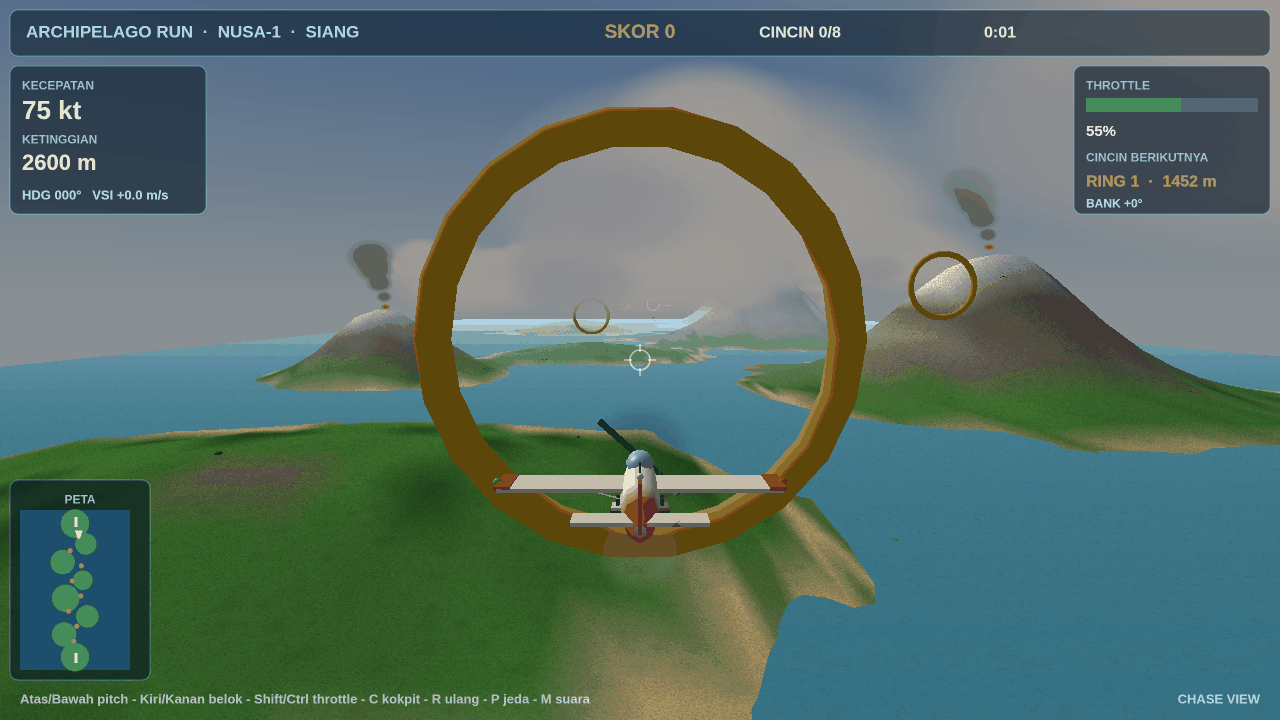
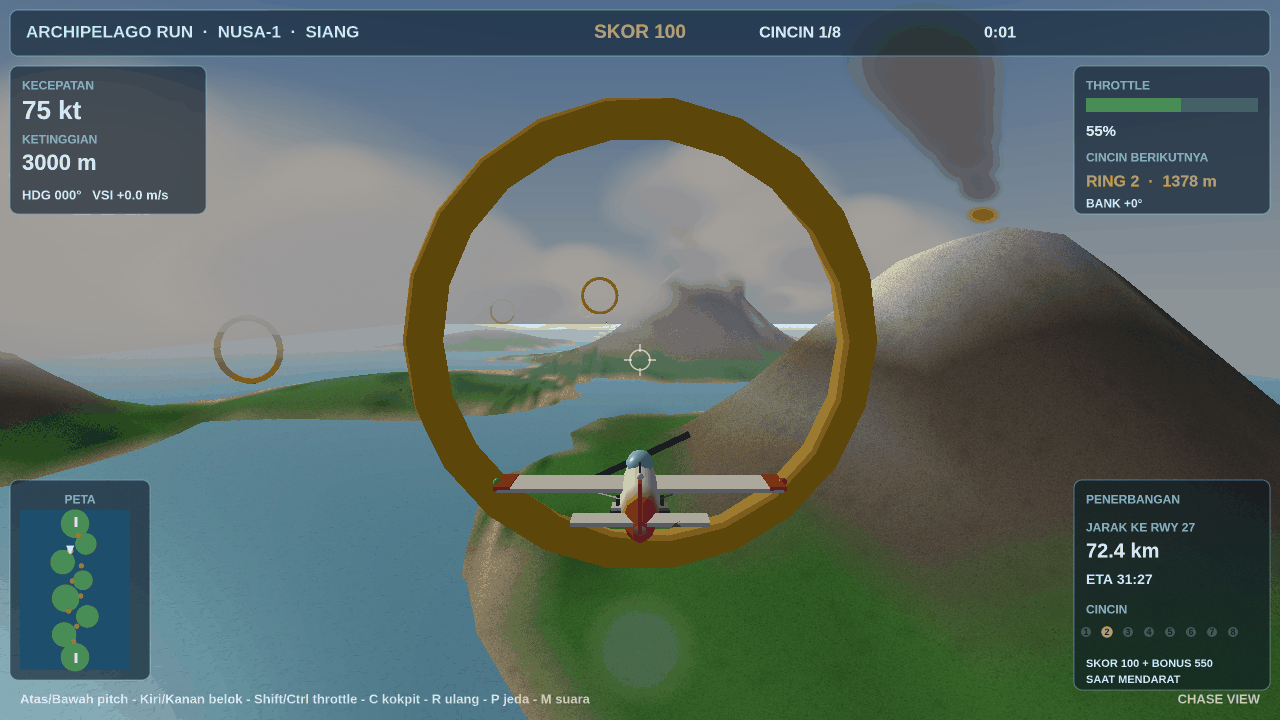
flight v3: golden-hour light, denser volcano smoke, sea sparkle, flight-progress HUD, reframed screenshots

diff --git a/game/index.html b/game/index.html
@@ -274,7 +274,7 @@ gl.enable(gl.BLEND);
 gl.blendFunc(gl.SRC_ALPHA,gl.ONE_MINUS_SRC_ALPHA);
 gl.getExtension('OES_element_index_uint');
 window.__gl=gl;
-gl.uniform3f(U.uSun,0.55,0.62,0.35);
+gl.uniform3f(U.uSun,0.6,0.45,0.35);
 gl.uniform3f(U.uFogCol,0.78,0.88,0.94);
 // ---------- shadow mapping (real sun shadows) ----------
 const SHADOW_SIZE=1024;
@@ -1285,7 +1285,7 @@ function update(dt){
 
 // ---------- camera + render ----------
 let lastView=matIdentity(),lastProj=matIdentity();
-const SUN_DIR=[0.55,0.62,0.35];
+const SUN_DIR=[0.6,0.45,0.35];
 function project(x,y,z){
   const v=transformPoint(lastView,[x,y,z]);
   const c=transformPoint(lastProj,v);
@@ -1341,7 +1341,7 @@ function renderShadowMap(){
 function render(){
   gl.viewport(0,0,glCanvas.width,glCanvas.height);
   // sky + fog colors follow the mission (day / night / storm)
-  const mc=S.mission==='night'?{clear:[0.02,0.03,0.08],fog:[0.05,0.08,0.15]}:S.mission==='storm'?{clear:[0.45,0.5,0.55],fog:[0.55,0.58,0.62]}:{clear:[0.55,0.78,0.92],fog:[0.78,0.88,0.94]};
+  const mc=S.mission==='night'?{clear:[0.02,0.03,0.08],fog:[0.05,0.08,0.15]}:S.mission==='storm'?{clear:[0.45,0.5,0.55],fog:[0.55,0.58,0.62]}:{clear:[0.62,0.76,0.9],fog:[0.84,0.85,0.9]};
   gl.clearColor(mc.clear[0],mc.clear[1],mc.clear[2],1);
   gl.uniform3f(U.uFogCol,mc.fog[0],mc.fog[1],mc.fog[2]);
   gl.clear(gl.COLOR_BUFFER_BIT|gl.DEPTH_BUFFER_BIT);
@@ -1393,7 +1393,7 @@ function render(){
   drawMesh(S.mission==='night'?nightSkyGL:skyGL,matTranslate(eye[0],eye[1],eye[2]),{noFog:true});
   gl.depthMask(true);
   // sea (specular) then terrain
-  drawMesh(seaGL,ident,{spec:0.55,tex:waterTex});
+  drawMesh(seaGL,ident,{spec:0.75,tex:waterTex});
   drawMesh(terrainGL,ident,{tex:detailTex});
   drawMesh(runwayStripGL,ident,{tex:asphaltTex});
   drawMesh(runwayMarksGL,ident,{});
@@ -1495,13 +1495,13 @@ function render(){
   // volcano smoke: a rising column over each peak + a warm crater glow
   for(const p of PEAKS){
     const py=groundY(p[0],p[1]);
-    for(let k=0;k<4;k++){
-      const rise=(S.time*10+k*50)%200;
-      const sx=p[0]+rise*0.35,sy=py+30+rise,sz=p[1]+rise*0.12;
-      const ss=26+rise*0.45;
+    for(let k=0;k<6;k++){
+      const rise=(S.time*10+k*38)%230;
+      const sx=p[0]+rise*0.4,sy=py+30+rise,sz=p[1]+rise*0.14;
+      const ss=30+rise*0.5;
       sprites.push({cx:sx,cy:sy,cz:sz,rx:ss,ry:ss*0.7,r:0.55,g:0.55,b:0.58,d:Math.hypot(sx-eye[0],sy-eye[1],sz-eye[2])});
     }
-    sprites.push({cx:p[0],cy:py+6,cz:p[1],rx:20,ry:11,r:1.0,g:0.45,b:0.12,d:Math.hypot(p[0]-eye[0],py+6-eye[1],p[1]-eye[2])});
+    sprites.push({cx:p[0],cy:py+6,cz:p[1],rx:28,ry:15,r:1.0,g:0.45,b:0.12,d:Math.hypot(p[0]-eye[0],py+6-eye[1],p[1]-eye[2])});
   }
   sprites.sort((a,b)=>b.d-a.d);
   drawSprites(sprites,ident,camRight,camUp,S.mission==='night'?0.85:0.92);
@@ -1680,6 +1680,24 @@ function drawHUD(){
     txt('MENUJU RUNWAY 27',1086,182,15,'#ffd23d','left','800');
   }
   txt('BANK '+(S.bank>=0?'+':'')+(S.bank*57.3).toFixed(0)+'°',1086,204,12,'#bfe3ff','left');
+  // --- bottom-right: flight progress (distance, ETA, ring strip) ---
+  panel(1074,480,196,210,0.6);
+  txt('PENERBANGAN',1086,500,12,'#8fb8d8','left','700');
+  const destD=Math.round(Math.hypot(S.x,9000-S.z)*10);
+  txt('JARAK KE RWY 27',1086,528,12,'#8fb8d8','left','700');
+  txt(destD>=1000?(destD/1000).toFixed(1)+' km':destD+' m',1086,552,20,'#ffffff','left','800');
+  const etaS=S.speed>5?destD/(S.speed*0.514):0;
+  txt('ETA '+(etaS>0?fmtTime(etaS):'--:--'),1086,580,14,'#bfe3ff','left','700');
+  txt('CINCIN',1086,610,12,'#8fb8d8','left','700');
+  for(let i=0;i<8;i++){
+    const dx=1086+i*21,dy=632;
+    hctx.fillStyle=RINGS[i].passed?'#37c871':(i===S.nextRing?'#ffd23d':'rgba(255,255,255,0.22)');
+    hctx.beginPath();hctx.arc(dx,dy,i===S.nextRing?6+Math.sin(S.time*4)*1.5:5,0,TAU);hctx.fill();
+    hctx.fillStyle='#0a1a28';hctx.font='700 9px Arial,sans-serif';hctx.textAlign='center';hctx.textBaseline='middle';
+    hctx.fillText(String(i+1),dx,dy+0.5);
+  }
+  txt('SKOR '+(S.rings*100)+' + BONUS '+(500+50*S.rings),1086,664,11,'#bfe3ff','left');
+  txt('SAAT MENDARAT',1086,680,11,'#bfe3ff','left');
   // --- minimap (bottom-left): archipelago, runways, rings, plane ---
   panel(10,480,140,200,0.6);
   txt('PETA',80,500,12,'#8fb8d8','center','700');
@@ -1897,9 +1915,9 @@ const missionParam=qs.get('mission');
 if(['day','night','storm','emergency'].includes(missionParam))S.mission=missionParam;
 if(scene==='takeoff'){S.started=true;S.mode='flying';S.x=300;S.y=130;S.z=-450;S.heading=-0.45;S.speed=25;S.throttle=0.3;S.pitch=-0.02;}
 else if(scene==='ring'){S.started=true;S.mode='flying';S.x=380;S.y=230;S.z=2700;S.heading=0.2;S.pitch=-0.02;S.speed=70;S.throttle=0.7;S.nextRing=2;S.rings=2;S.score=200;}
-else if(scene==='landing'){S.started=true;S.mode='flying';S.x=40;S.y=55;S.z=8720;S.heading=-0.3;S.speed=40;S.throttle=0.3;S.pitch=-0.06;S.nextRing=8;}
-else if(scene==='cockpit'){S.started=true;S.mode='flying';S.view='cockpit';S.x=0;S.y=200;S.z=4000;S.heading=0;S.speed=70;S.throttle=0.55;S.pitch=0;S.nextRing=4;S.rings=3;S.score=300;}
-else if(scene==='cover'){S.started=true;S.mode='flying';S.x=250;S.y=260;S.z=650;S.heading=0;S.speed=75;S.throttle=0.55;S.pitch=0;S.nextRing=0;S.rings=0;S.score=0;}
+else if(scene==='landing'){S.started=true;S.mode='flying';S.x=20;S.y=35;S.z=8850;S.heading=-0.1;S.speed=35;S.throttle=0.25;S.pitch=-0.04;S.nextRing=8;S.rings=8;S.score=800;}
+else if(scene==='cockpit'){S.started=true;S.mode='flying';S.view='cockpit';S.x=200;S.y=230;S.z=4500;S.heading=0.1;S.speed=70;S.throttle=0.55;S.pitch=0;S.nextRing=4;S.rings=3;S.score=300;}
+else if(scene==='cover'){S.started=true;S.mode='flying';S.x=-320;S.y=300;S.z=1650;S.heading=0;S.speed=75;S.throttle=0.55;S.pitch=0;S.nextRing=1;S.rings=1;S.score=100;}
 else if(scene==='landed'){S.started=true;S.mode='takeoff';S.x=38;S.y=4;S.z=9170;S.heading=2.7;S.speed=0;S.throttle=0;S.pitch=0;S.camDist=45;S.camH=0.32;}
 
 // ---------- main loop ----------
